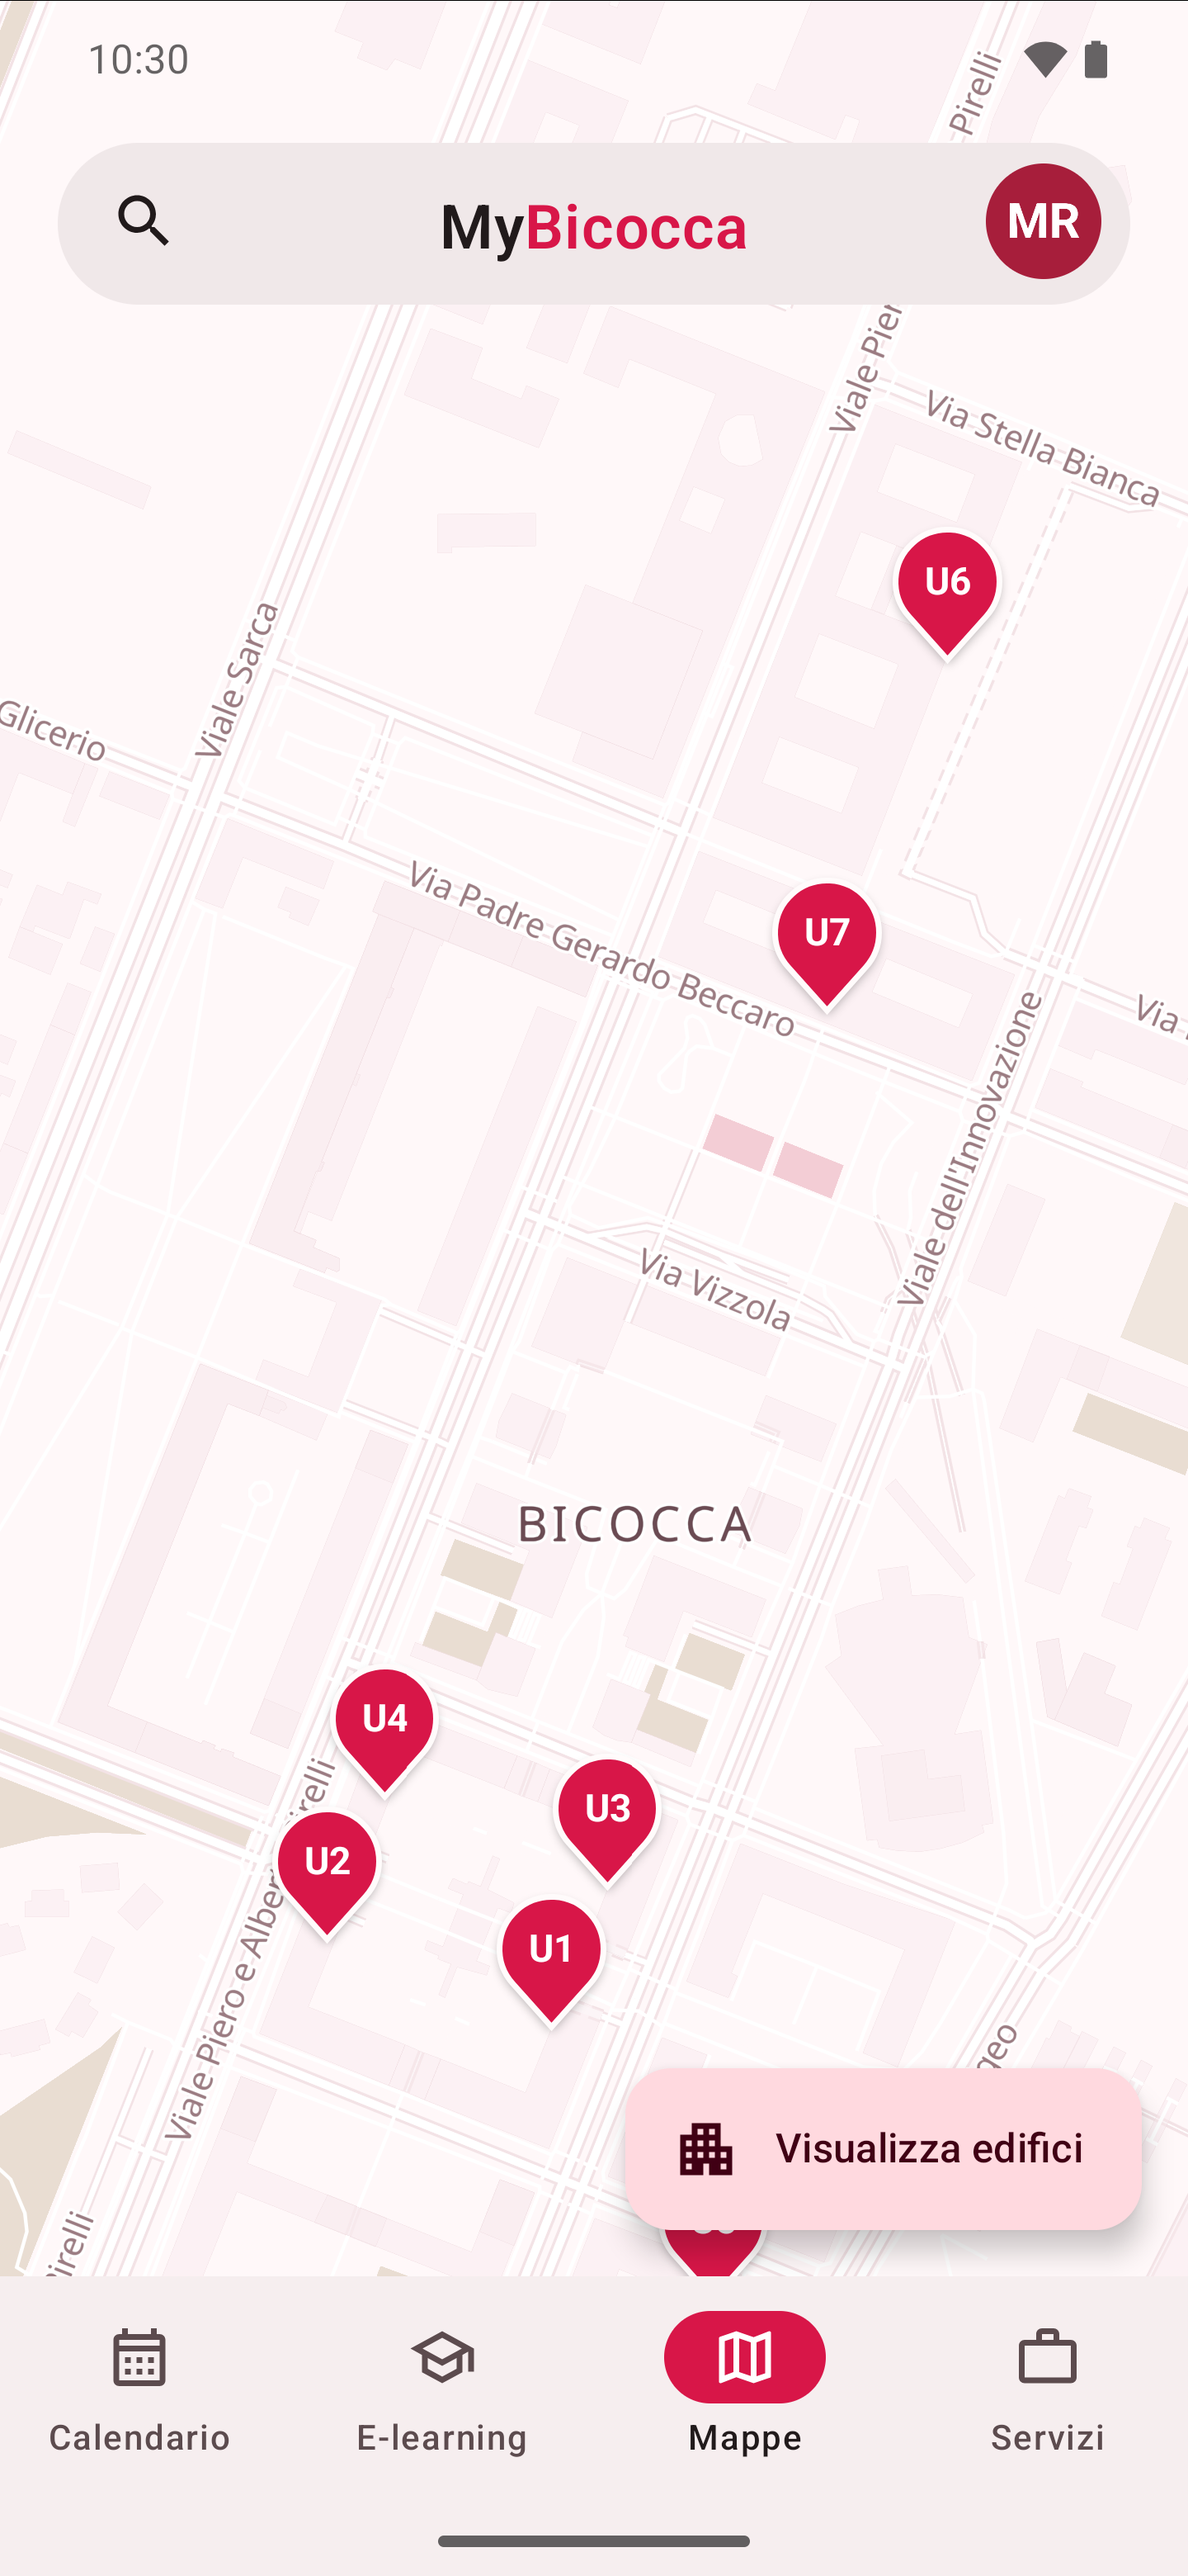
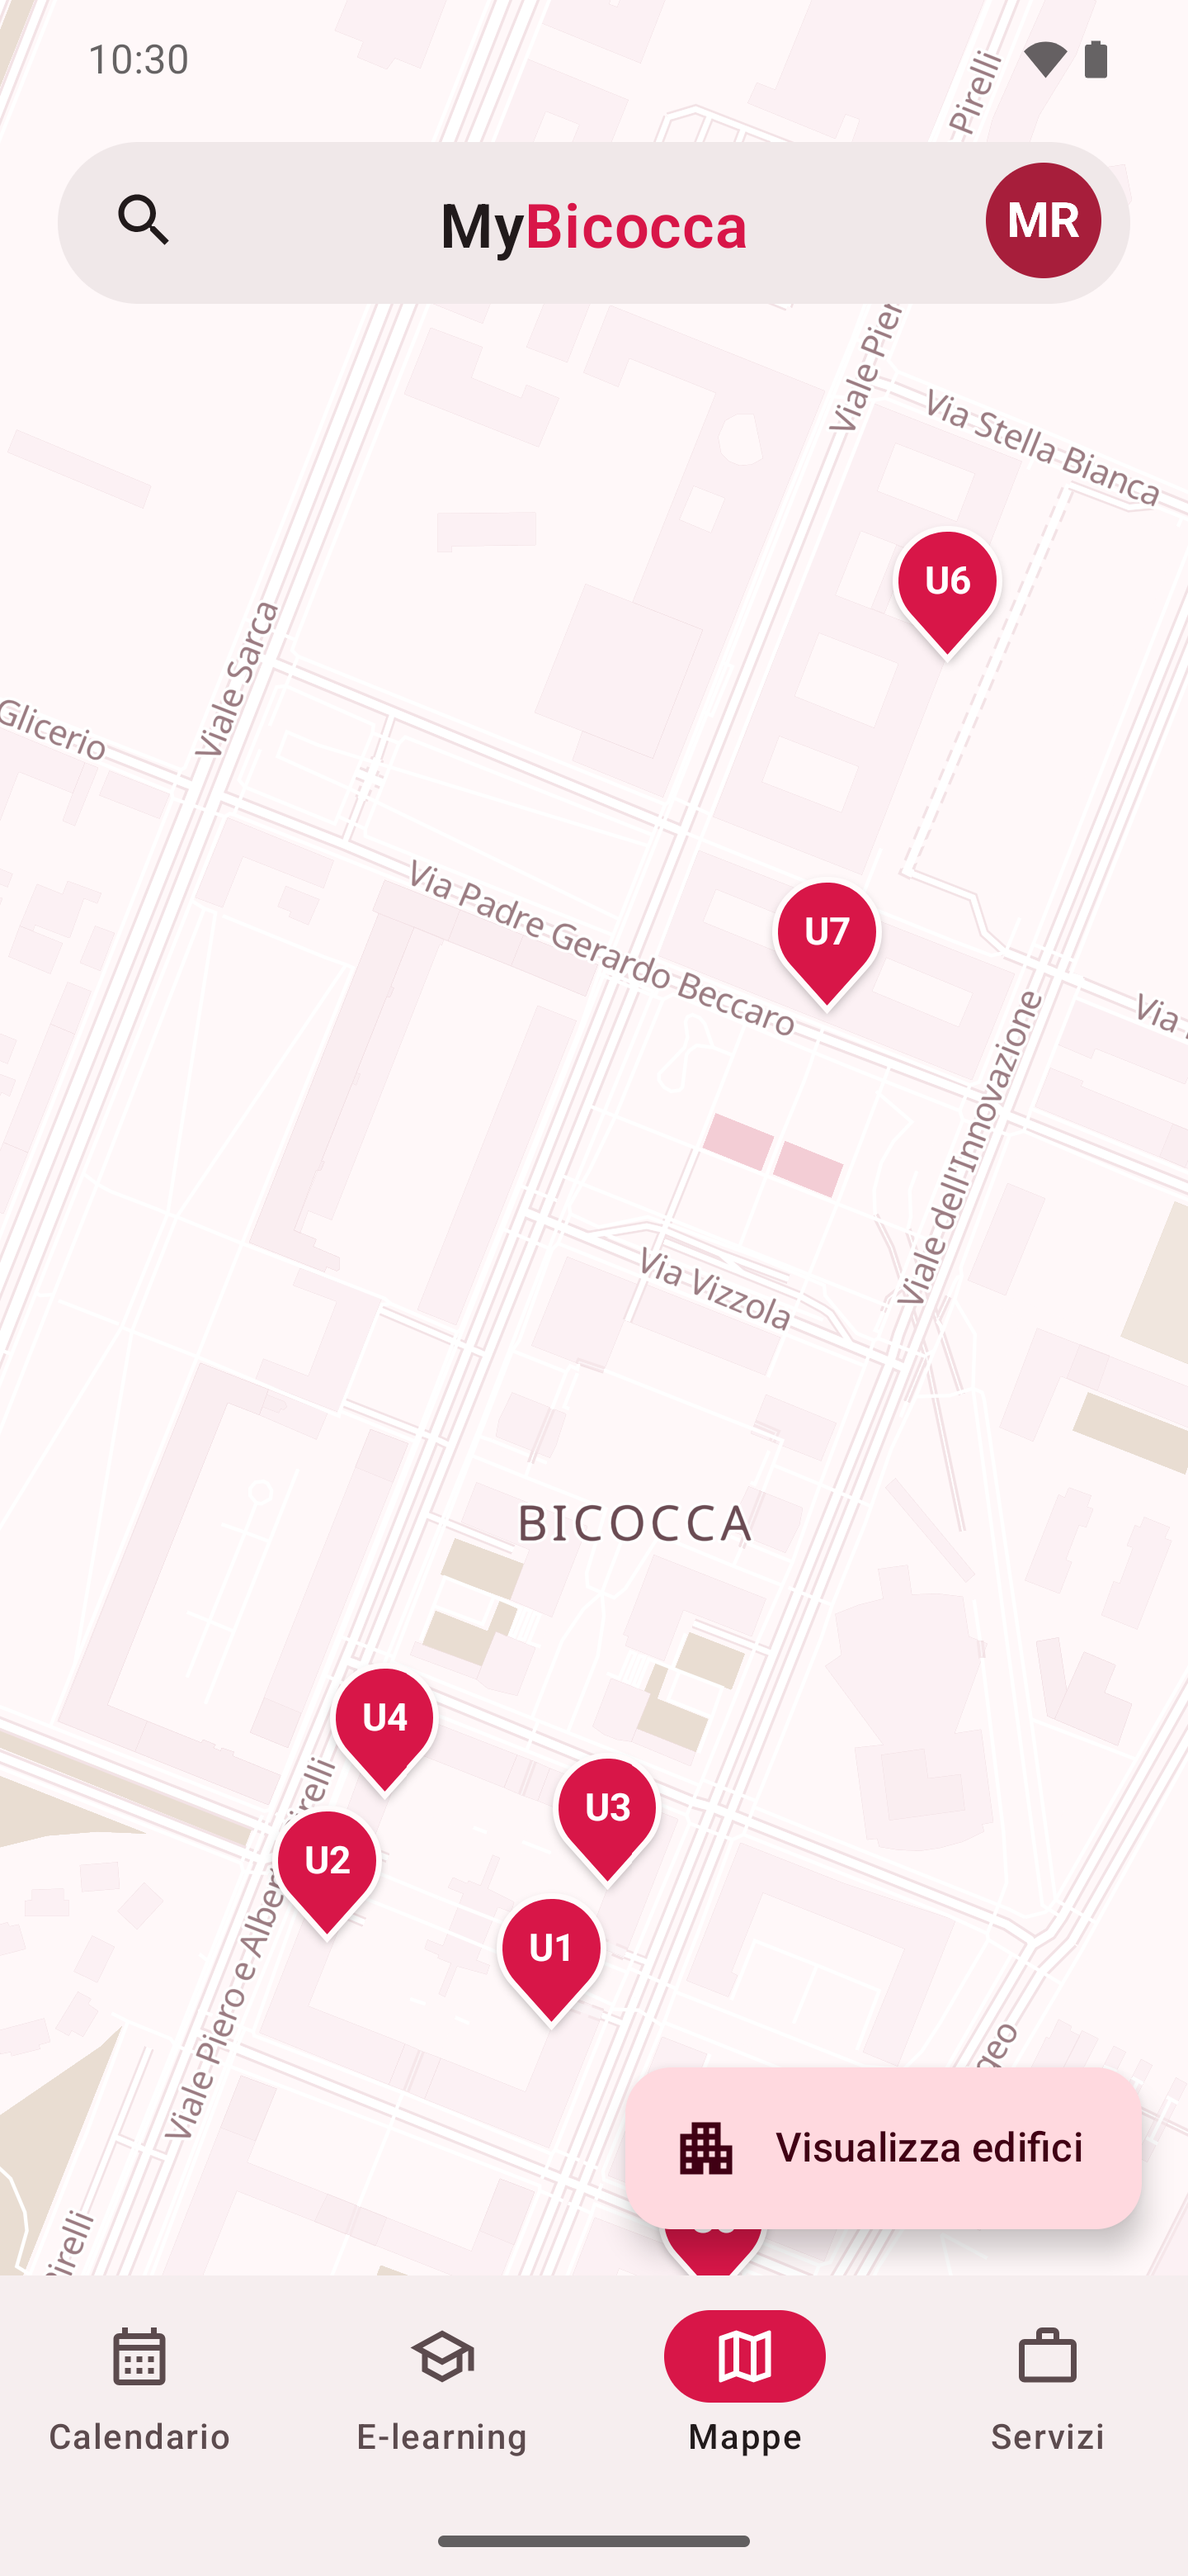
feat(demo): capture the map's building list and building detail
The map keeps its two sheets outside the back stack, so a route could
not open them, and its controls are missing from the accessibility tree,
so the capture script could not tap them either.

- Whether the building directory is open now lives in MapViewModel
  instead of the screen, so it can be opened from outside it.
- A shell command can ask for the directory or for one building, and a
  catalogue entry can carry either as buildingsList or building.
- Adds Screenshot_MapBuildings and Screenshot_MapBuildingU1 in both
  languages and modes, and restores the two README rows that use them.

diff --git a/android/app/src/main/java/it/attendance100/mybicocca/ui/screen/map/MapScreen.kt b/android/app/src/main/java/it/attendance100/mybicocca/ui/screen/map/MapScreen.kt
@@ -305,7 +305,7 @@ fun MapScreen(
 
     val haptic = rememberHapticManager()
     val navigator = LocalAppNavigator.current
-    var showBuildingsList by remember { mutableStateOf(false) }
+    val showBuildingsList by viewModel.buildingsListVisible.collectAsStateWithLifecycle()
     LaunchedEffect(isActive) {
         if (isActive) onProvideFilterToggle { navigator?.navigate(SheetRoute.MapFilter) }
     }
@@ -515,7 +515,7 @@ fun MapScreen(
         )
 
         ExtendedFloatingActionButton(
-            onClick = { haptic.tap(); showBuildingsList = true },
+            onClick = { haptic.tap(); viewModel.showBuildingsList() },
             icon = { Icon(Icons.Outlined.Apartment, contentDescription = null) },
             text = { Text(stringResource(R.string.map_view_buildings)) },
             modifier = Modifier
@@ -569,10 +569,7 @@ fun MapScreen(
             onRoomClick = viewModel::selectRoom,
             onCloseRoom = viewModel::clearRoomSelection,
             onBack = viewModel::clearSelection,
-            onDismiss = {
-                showBuildingsList = false
-                viewModel.clearSelection()
-            },
+            onDismiss = viewModel::hideBuildingsList,
             onRetryRooms = viewModel::retryRooms,
         )
     }

diff --git a/android/app/src/main/java/it/attendance100/mybicocca/ui/navigation/MainShell.kt b/android/app/src/main/java/it/attendance100/mybicocca/ui/navigation/MainShell.kt
@@ -62,6 +62,7 @@ import coil.request.ImageRequest
 import coil.size.Size
 import it.attendance100.mybicocca.R
 import it.attendance100.mybicocca.core.notification.NotificationRoute
+import it.attendance100.mybicocca.domain.model.map.BuildingCode
 import it.attendance100.mybicocca.domain.model.update.AppRelease
 import it.attendance100.mybicocca.domain.model.update.UpdateModalKind
 import it.attendance100.mybicocca.ui.component.modal.UpdateModalRequest
@@ -627,12 +628,15 @@ fun MainShell(
         }
     }
 
-    LaunchedEffect(navigator, pagerState, scope) {
+    LaunchedEffect(navigator, pagerState, scope, mapViewModel) {
         ShellCommands.flow.collect { command ->
             navigator.popToRoot()
             // Launched apart, as tab taps do: a scroll interrupted by another one must not end this collector.
             scope.launch { pagerState.scrollToPage(command.tab.ordinal) }
             command.routes.forEach(navigator::navigate)
+            mapViewModel.hideBuildingsList()
+            if (command.buildingsList) mapViewModel.showBuildingsList()
+            command.building?.let { mapViewModel.selectBuilding(BuildingCode(it)) }
         }
     }
 

diff --git a/android/app/src/main/java/it/attendance100/mybicocca/ui/screen/map/MapViewModel.kt b/android/app/src/main/java/it/attendance100/mybicocca/ui/screen/map/MapViewModel.kt
@@ -80,6 +80,11 @@ class MapViewModel @Inject constructor(
             loadable.map { list -> list.filter { it.matches(categories) } }
         }.stateIn(viewModelScope, SharingStarted.WhileSubscribed(STATE_KEEP_ALIVE_MS), Loadable.NotYetLoaded)
 
+    private val _buildingsListVisible = MutableStateFlow(false)
+
+    /** Whether the building directory sheet is open; held here so it can be opened from outside the screen. */
+    val buildingsListVisible: StateFlow<Boolean> = _buildingsListVisible.asStateFlow()
+
     private val _selectedBuildingCode = MutableStateFlow<BuildingCode?>(null)
 
     val selectedBuilding: StateFlow<MapBuilding?> =
@@ -142,6 +147,15 @@ class MapViewModel @Inject constructor(
 
     fun clearCategories() {
         _categoryFilter.value = emptySet()
+    }
+
+    fun showBuildingsList() {
+        _buildingsListVisible.value = true
+    }
+
+    fun hideBuildingsList() {
+        _buildingsListVisible.value = false
+        clearSelection()
     }
 
     fun selectBuilding(code: BuildingCode) {

diff --git a/android/app/src/main/java/it/attendance100/mybicocca/ui/navigation/ShellCommands.kt b/android/app/src/main/java/it/attendance100/mybicocca/ui/navigation/ShellCommands.kt
@@ -6,8 +6,16 @@ import kotlinx.coroutines.channels.BufferOverflow
 import kotlinx.coroutines.flow.MutableSharedFlow
 import kotlinx.coroutines.flow.SharedFlow
 
-/** Puts the shell on [tab] with exactly [routes] stacked on top of the tab root, in order. */
-data class ShellCommand(val tab: ShellTab, val routes: List<Route>)
+/**
+ * Puts the shell on [tab] with exactly [routes] stacked on top of the tab root, in order. The map
+ * keeps its sheets outside the back stack, so [buildingsList] and [building] open those instead.
+ */
+data class ShellCommand(
+    val tab: ShellTab,
+    val routes: List<Route>,
+    val buildingsList: Boolean = false,
+    val building: String? = null,
+)
 
 /**
  * A way to drive the shell from outside the composition. Nothing in a shipped build sends

diff --git a/android/app/src/demo/java/it/attendance100/mybicocca/demo/capture/ScreenshotCatalog.kt b/android/app/src/demo/java/it/attendance100/mybicocca/demo/capture/ScreenshotCatalog.kt
@@ -14,7 +14,8 @@ import kotlinx.serialization.json.jsonPrimitive
 /**
  * One screenshot: the tab to show and the routes to stack on it. [tap] lists string resource names
  * whose text the capture script taps afterwards, in whatever language it is capturing, for states
- * a route alone cannot reach.
+ * a route alone cannot reach. [buildingsList] and [building] open the map's own sheets, which are
+ * not routes.
  */
 @Serializable
 data class Shot(
@@ -22,6 +23,8 @@ data class Shot(
     val tab: ShellTab,
     val routes: List<Route> = emptyList(),
     val tap: List<String> = emptyList(),
+    val buildingsList: Boolean = false,
+    val building: String? = null,
 )
 
 /** A route deliberately left without a screenshot, and why. */

diff --git a/android/app/src/demo/java/it/attendance100/mybicocca/demo/capture/DemoCaptureReceiver.kt b/android/app/src/demo/java/it/attendance100/mybicocca/demo/capture/DemoCaptureReceiver.kt
@@ -51,7 +51,7 @@ class DemoCaptureReceiver : BroadcastReceiver() {
         intent.getStringExtra(EXTRA_SHOT)?.let { name ->
             val catalog = ScreenshotCatalog.parse(context.assets.open(ScreenshotCatalog.ASSET).reader().use { it.readText() })
             val shot = catalog.shot(name)
-            if (shot == null) Log.w(TAG, "Unknown shot $name") else ShellCommands.send(ShellCommand(shot.tab, shot.routes))
+            if (shot == null) Log.w(TAG, "Unknown shot $name") else ShellCommands.send(ShellCommand(shot.tab, shot.routes, shot.buildingsList, shot.building))
         }
     }
 

diff --git a/documentation/demo-mode-follow-ups.md b/documentation/demo-mode-follow-ups.md
@@ -64,13 +64,14 @@ app that the demo build happened to expose, or a known gap in the demo itself.
 
 ## Screenshot catalogue gaps
 
-- **Not captured:** Login (demo is always signed in), the QR scanner camera view, global search,
-  and the map's building list and building detail.
-- **Map buttons are invisible to the capture script.** Nothing on the Map tab is exposed to
-  accessibility ("View buildings" included), so the script cannot tap it. Besides blocking those
-  two shots, this means screen readers cannot reach the map controls either.
-- **README lost its "Inside a building" row**, since there is no building-detail shot to show, and
-  the "Building directory" row now shows the map filter sheet.
+- **Not captured:** Login (demo is always signed in), the QR scanner camera view and global
+  search.
+- **Map controls are missing from the accessibility tree.** A UI dump of the Map tab lists only the
+  top and bottom bars, not the "View buildings" button, so the capture script could not tap it
+  (the building list and detail are opened through the view model instead). Worth checking with
+  TalkBack: screen-reader users may not be able to reach the map controls either.
+- **Building detail shows "Availability unknown" for every room**, since the frozen demo date has
+  no real EasyStaff schedule behind it.
 - **Camera placeholder:** the scanner camera view is not generated, so there is nothing yet to
   drop a placeholder image into. `Screenshot_AttendanceOpt` shows the check-in chooser before it.
 - **Language settings shot** shows the captured language selected, not "System", because the

diff --git a/README.md b/README.md
@@ -202,12 +202,22 @@ Tappable pins for every building, rendered from a bundled vector tileset. No Goo
 </td>
 </tr>
 <tr>
-<td><picture><source media="(prefers-color-scheme: dark)" srcset="screenshots/demo/en/dark/Screenshot_MapFilter.png" /><img src="screenshots/demo/en/light/Screenshot_MapFilter.png" width="230" /></picture></td>
+<td><picture><source media="(prefers-color-scheme: dark)" srcset="screenshots/demo/en/dark/Screenshot_MapBuildings.png" /><img src="screenshots/demo/en/light/Screenshot_MapBuildings.png" width="230" /></picture></td>
 <td>
 
 #### Building directory
 
 Search the whole campus, filter by category, and get one‑tap directions to anywhere.
+
+</td>
+</tr>
+<tr>
+<td><picture><source media="(prefers-color-scheme: dark)" srcset="screenshots/demo/en/dark/Screenshot_MapBuildingU1.png" /><img src="screenshots/demo/en/light/Screenshot_MapBuildingU1.png" width="230" /></picture></td>
+<td>
+
+#### Inside a building
+
+Drill into rooms and their details, with live EasyBadge occupancy schedules. The map recolours itself to match your theme.
 
 </td>
 </tr>
